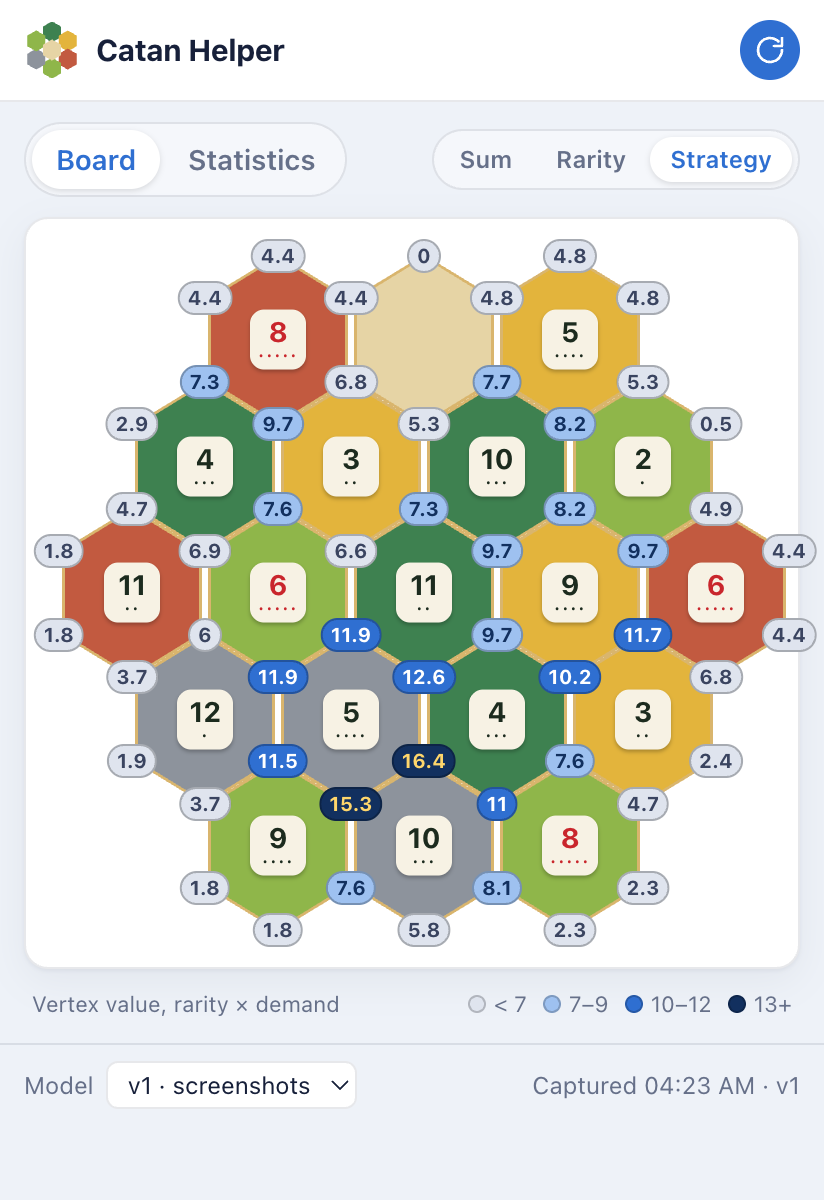
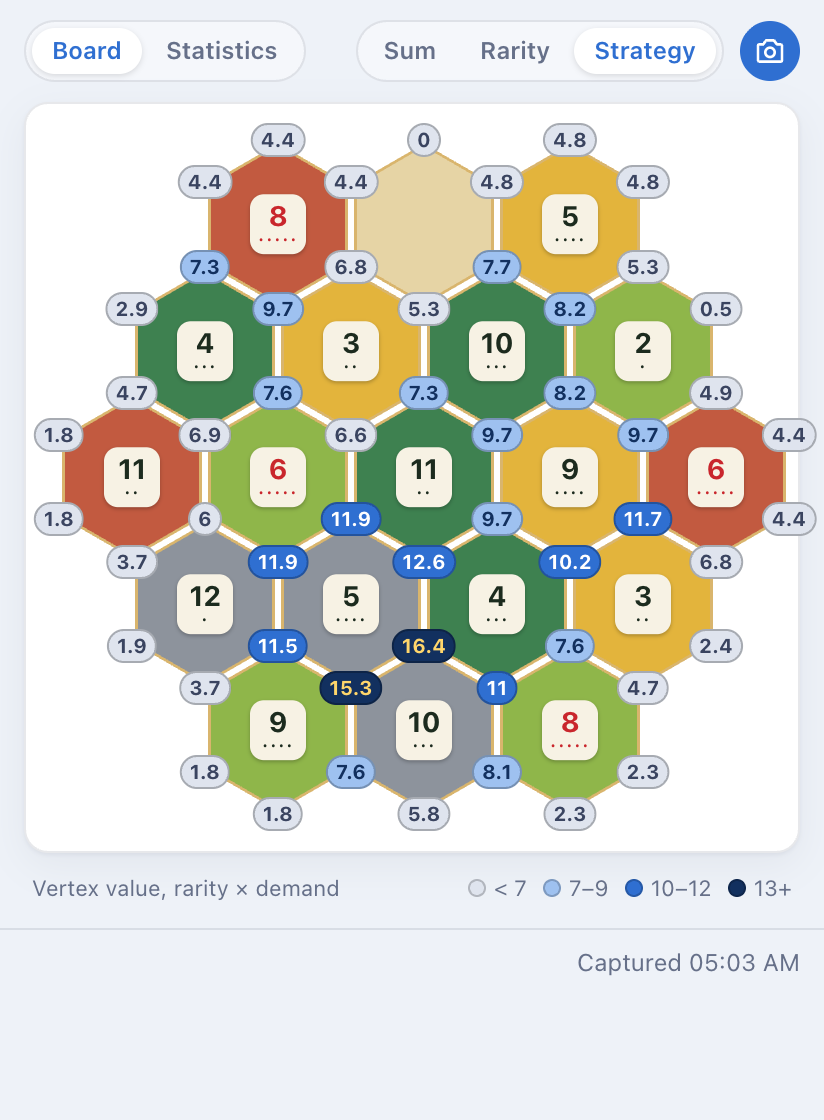
feat(extension-local): move the capture button onto the tab row
Drop the header bar. The camera button used on the welcome screen now sits at the end of the row with the view and weighting controls, so every screen captures with the same glyph.

diff --git a/extension-local/src/App.tsx b/extension-local/src/App.tsx
@@ -2,7 +2,7 @@ import { useMemo, useState } from 'react'
 import { type BoardAnalyzer } from './app/boardAnalyzer'
 import { useBoardAnalysis } from './app/useBoardAnalysis'
 import { BoardView } from './components/Board/BoardView'
-import { Header } from './components/Header/Header'
+import { CameraIcon } from './components/Icons/Icons'
 import { Legend } from './components/Legend/Legend'
 import { Notice } from './components/Notice/Notice'
 import { Segmented } from './components/Segmented/Segmented'
@@ -44,8 +44,6 @@ export const App = ({ analyzer, analysisStore }: AppProps) => {
 
   return (
     <div className="app">
-      <Header onRefresh={board ? analyze : undefined} refreshing={isAnalyzing} />
-
       <main className="app-main">
         {error && <Notice tone="error">{error}</Notice>}
         {warnings.map((warning) => (
@@ -61,6 +59,7 @@ export const App = ({ analyzer, analysisStore }: AppProps) => {
             <div className="toolbar">
               <Segmented
                 ariaLabel="View"
+                size="sm"
                 value={tab}
                 onChange={setTab}
                 options={[
@@ -90,6 +89,16 @@ export const App = ({ analyzer, analysisStore }: AppProps) => {
                   ]}
                 />
               )}
+              <button
+                type="button"
+                className={`icon-button ${isAnalyzing ? 'is-busy' : ''}`}
+                onClick={analyze}
+                disabled={isAnalyzing}
+                title="Capture the board again (⌘⇧Y)"
+                aria-label="Capture the board again"
+              >
+                <CameraIcon />
+              </button>
             </div>
             {tab === 'board' && (
               <>

diff --git a/extension-local/src/index.css b/extension-local/src/index.css
@@ -98,7 +98,7 @@ select {
 .app {
   display: flex;
   flex-direction: column;
-  min-height: 460px;
+  min-height: 440px;
   width: var(--popup-width);
 }
 
@@ -114,7 +114,59 @@ select {
   align-items: center;
   display: flex;
   gap: 8px;
-  justify-content: space-between;
+}
+
+/* The weighting control sits next to the capture button on the right. */
+.toolbar > :nth-child(2):not(:last-child) {
+  margin-left: auto;
+}
+
+.toolbar > :last-child {
+  margin-left: auto;
+}
+
+.toolbar > :nth-child(2):not(:last-child) + .icon-button {
+  margin-left: 0;
+}
+
+.icon-button {
+  align-items: center;
+  background: var(--brand);
+  border: none;
+  border-radius: 999px;
+  color: #fff;
+  cursor: pointer;
+  display: inline-flex;
+  flex: none;
+  height: 30px;
+  justify-content: center;
+  transition:
+    background 0.15s ease,
+    transform 0.1s ease;
+  width: 30px;
+}
+
+.icon-button:hover {
+  background: var(--brand-strong);
+}
+
+.icon-button:active {
+  transform: translateY(1px);
+}
+
+.icon-button:disabled {
+  cursor: progress;
+  opacity: 0.8;
+}
+
+.icon-button.is-busy svg {
+  animation: pulse 1s ease-in-out infinite;
+}
+
+@keyframes pulse {
+  50% {
+    opacity: 0.35;
+  }
 }
 
 .tile-brick {

diff --git a/extension-local/src/components/Icons/Icons.tsx b/extension-local/src/components/Icons/Icons.tsx
@@ -12,13 +12,6 @@ const base: SVGProps<SVGSVGElement> = {
   'aria-hidden': true,
 }
 
-export const RefreshIcon = (props: SVGProps<SVGSVGElement>) => (
-  <svg {...base} {...props}>
-    <path d="M21 12a9 9 0 1 1-2.64-6.36" />
-    <path d="M21 3v6h-6" />
-  </svg>
-)
-
 export const CameraIcon = (props: SVGProps<SVGSVGElement>) => (
   <svg {...base} {...props}>
     <path d="M4 7h3l2-3h6l2 3h3a1 1 0 0 1 1 1v11a1 1 0 0 1-1 1H4a1 1 0 0 1-1-1V8a1 1 0 0 1 1-1z" />

diff --git a/extension-local/README.md b/extension-local/README.md
@@ -74,8 +74,9 @@ src/
 │   ├── analysisStore.ts   last reading in chrome.storage.session (memory fallback in dev).
 │   └── runtime.ts         extension vs dev-server detection, asset URLs.
 ├── components/         Presentational React components, one folder each with its CSS.
-│   ├── Header, StatusBar  Frame of the popup: brand + capture button, model picker + capture time.
-│   ├── Segmented          Radio group styled as a segmented control (Board/Statistics, Sum/Rarity).
+│   ├── StatusBar          Footer with the capture time.
+│   ├── Segmented          Radio group styled as a segmented control (Board/Statistics, Sum/Rarity/Strategy);
+│                          the capture button shares its row.
 │   ├── Board, Hexagon     Absolutely positioned hex grid; the board draws each of the 54 vertices once.
 │   ├── Legend             Vertex value bands.
 │   ├── Statistics         Resources ranked rarest first with pips, numbers and share bars.
